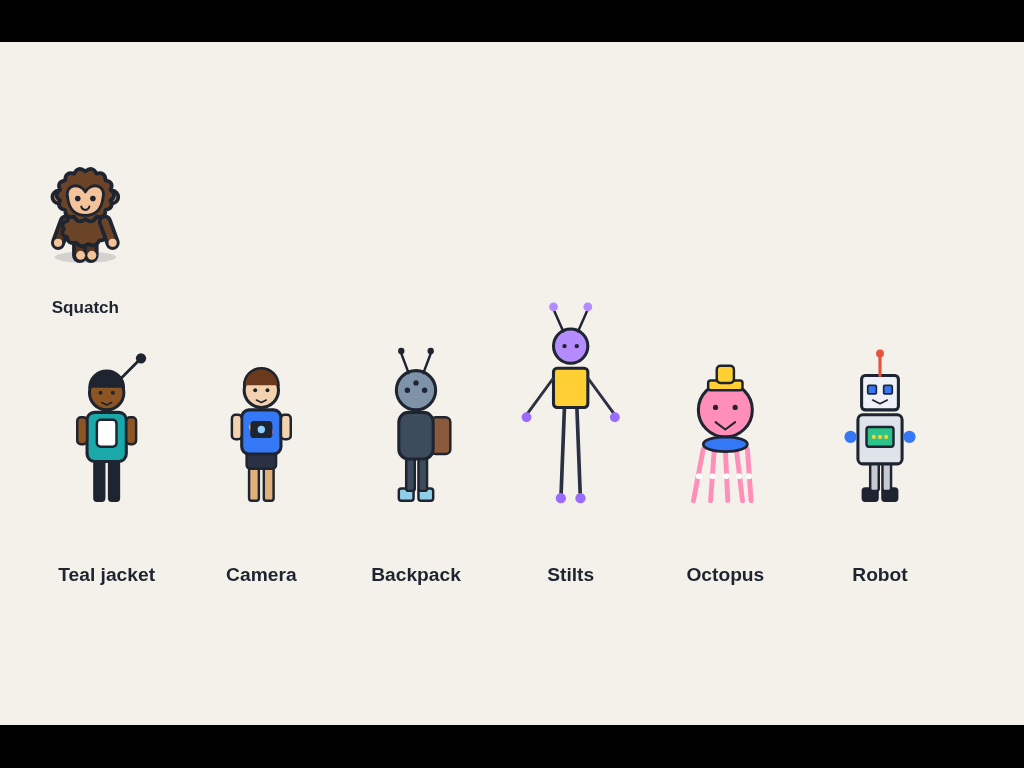
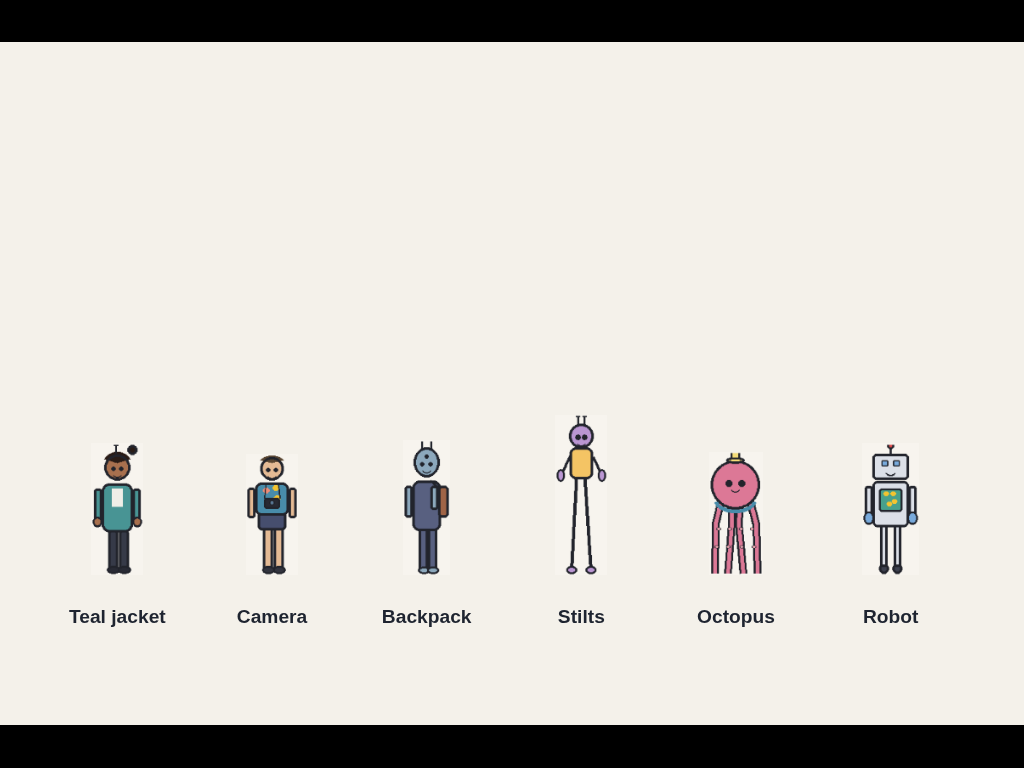
fix: use Brian's Nov 8 guest sheet as the only guest art
The six guests are slices of assets/approved/guests/nov8-six-approved-guests.png. The description drawings are gone. The check fails if guest art loads from anywhere else. The bush eyes stay at the approved leaf ratio.

diff --git a/prototypes/space-snack-quest/characters.js b/prototypes/space-snack-quest/characters.js
@@ -1,7 +1,7 @@
 // Character drawings from the live game on main, commit 4d1faa2 (2026-11-17).
 // Squatch: Re in src/game/60-frame-draw.js
 // Mops: Fe in the same file. The separate mop prop is left out; the beard is the mop.
-// Guests: drawCh1Alien in src/game/12-ch1-redesign.js
+// Guests are the Nov 8 sheet in assets/approved/guests/, not drawn here.
 // Hidden eyes: ga in src/game/10-ch1.js
 // The title screen of that game still uses an older Squatch and Mops. Those are not used here.
 (function () {
@@ -226,55 +226,6 @@ function Fe(l, o, i, s) {
     F(-2, -18, 1.2, "#e8a400"),
     e.restore());
 }
-function drawCh1Alien(ax, ay, kind, sc, face) {
-  let f = face < 0 ? -1 : 1,
-    bob = Math.sin(n.T * 2 + ax * 0.01) * 1.5;
-  (e.save(), e.translate(ax, ay + bob), e.scale(sc * f, sc));
-  (e.beginPath(), e.ellipse(0, 2, 16, 4, 0, 0, 7), (e.fillStyle = "rgba(30,36,48,.16)"), e.fill());
-  let body = "#7ad0c8",
-    skin = "#d8fff6";
-  kind === "croc" && ((body = "#3f8f4a"), (skin = "#b6e7a8"));
-  kind === "hat" && ((body = "#ff8a3d"), (skin = "#f0bf93"));
-  kind === "hair" && ((body = "#3478f6"), (skin = "#f2c1b0"));
-  kind === "spots" && ((body = "#ffcf33"), (skin = "#fff3c4"));
-  kind === "horns" && ((body = "#c9b6f2"), (skin = "#efe8ff"));
-  kind === "blob" && ((body = "#59657d"), (skin = "#d5dbe6"));
-  kind === "cape" && ((body = "#1f9d8a"), (skin = "#d8fff6"));
-  (m(-6, -20, 7, 20, 2),
-    r("#3d4454", 2),
-    m(2, -20, 7, 20, 2),
-    r("#3d4454", 2),
-    m(-16, -54, 32, 36, 10),
-    r(body, 3),
-    m(-22, -48, 8, 22, 3),
-    r(body, 2),
-    m(14, -48, 8, 22, 2),
-    r(body, 2),
-    L(0, -70, 14),
-    r(skin, 3),
-    F(-5, -72, 1.8, y),
-    F(5, -72, 1.8, y),
-    C([-3, -64, 0, -62, 3, -64], y, 1.2));
-  if (kind === "antenna") (C([-5, -82, -10, -98], y, 2.2), C([5, -82, 10, -98], y, 2.2), F(-10, -100, 3.2, "#ffcf33"), F(10, -100, 3.2, "#ffcf33"));
-  else if (kind === "croc")
-    (e.beginPath(),
-      e.moveTo(8, -76),
-      e.lineTo(30, -72),
-      e.lineTo(30, -62),
-      e.lineTo(8, -66),
-      e.closePath(),
-      r("#2f7a3a", 2),
-      F(24, -70, 1.3, y),
-      F(24, -65, 1.3, y),
-      C([14, -66, 20, -64, 26, -67], "#1e2430", 1.2));
-  else if (kind === "hat") (m(-14, -78, 28, 6, 2), r("#2b3a67", 2), m(-7, -92, 14, 16, 2), r("#2b3a67", 2));
-  else if (kind === "hair") (e.beginPath(), e.arc(0, -70, 14, Math.PI, 0), r("#7a4ad0", 3));
-  else if (kind === "spots") (F(-6, -48, 3, "#e5533d"), F(6, -40, 2.4, "#e5533d"), F(0, -56, 2, "#e5533d"));
-  else if (kind === "horns") (C([-4, -78, -12, -94], y, 3), C([4, -78, 12, -94], y, 3));
-  else if (kind === "blob") (F(-6, -70, 2, y), F(0, -70, 2, y), F(6, -70, 2, y), L(0, -40, 8), r("#8a93a3", 2));
-  else (m(-18, -46, 8, 18, 3), r("#e5533d", 2));
-  e.restore();
-}
 // One peeking eye from ga() in src/game/10-ch1.js at 4d1faa2 (decision C21, Brian t230).
 // White circle, 2px outline, pupil nudged down-right, and the same blink.
 // k scales the whole drawing. 1 is the original size on the original 40px front leaf.
@@ -285,105 +236,6 @@ function ga(l, o, k) {
   r("#ffffff", 2 * k);
   F(l + k, o + k, 2.4 * k, y);
 }
-// The Nov 8 guests (C12). The sprite files were not in the repo, so these are drawn
-// from Brian's description of that set. Not the later eight code-drawn guests.
-function drawApprovedGuest(ax, ay, kind, sc, face) {
-  const f = face < 0 ? -1 : 1;
-  e.save();
-  e.translate(ax, ay);
-  e.scale((sc || 1) * f, sc || 1);
-  if (kind === "teal") drawTeal();
-  else if (kind === "camera") drawCameraGuest();
-  else if (kind === "backpack") drawBackpack();
-  else if (kind === "stilt") drawStilt();
-  else if (kind === "octopus") drawOctopusGuest();
-  else if (kind === "robot") drawRobotGuest();
-  e.restore();
-}
-function drawTeal() {
-  m(-10, -36, 8, 36, 2); r("#1e2430", 2);
-  m(2, -36, 8, 36, 2); r("#1e2430", 2);
-  m(-16, -72, 32, 40, 6); r("#1aa8a8", 2.5);
-  m(-8, -66, 16, 22, 3); r("#ffffff", 2);
-  m(-24, -68, 8, 22, 3); r("#8d5524", 2);
-  m(16, -68, 8, 22, 3); r("#8d5524", 2);
-  L(0, -88, 14); r("#8d5524", 2.5);
-  e.beginPath(); e.arc(0, -92, 14, Math.PI, 0); r("#1e2430", 2);
-  F(-5, -88, 1.6, y); F(5, -88, 1.6, y);
-  C([-4, -80, 0, -78, 4, -80], y, 1.4);
-  C([12, -100, 26, -114], y, 2.2);
-  F(28, -116, 4.2, y);
-}
-function drawCameraGuest() {
-  m(-10, -30, 8, 30, 2); r("#e0b07a", 2);
-  m(2, -30, 8, 30, 2); r("#e0b07a", 2);
-  m(-12, -42, 24, 16, 3); r("#2a3142", 2);
-  m(-16, -74, 32, 36, 6); r("#3478f6", 2.5);
-  F(-6, -60, 4, "#ffcf33"); F(6, -56, 3.4, "#ff8fb8");
-  m(-8, -64, 16, 12, 2); r("#1e2430", 2);
-  F(0, -58, 3, "#8fd0ff");
-  m(-24, -70, 8, 20, 3); r("#f3d2b0", 2);
-  m(16, -70, 8, 20, 3); r("#f3d2b0", 2);
-  L(0, -90, 14); r("#f3d2b0", 2.5);
-  e.beginPath(); e.arc(0, -94, 14, Math.PI, 0); r("#6b3a1c", 2);
-  F(-5, -90, 1.6, y); F(5, -90, 1.6, y);
-  C([-4, -82, 0, -80, 4, -82], y, 1.3);
-}
-function drawBackpack() {
-  m(-14, -10, 12, 10, 2); r("#8fd0e8", 2);
-  m(2, -10, 12, 10, 2); r("#8fd0e8", 2);
-  m(-8, -38, 7, 30, 2); r("#3d4c5c", 2);
-  m(2, -38, 7, 30, 2); r("#3d4c5c", 2);
-  m(12, -68, 16, 30, 4); r("#8b5a3c", 2);
-  m(-14, -72, 28, 38, 8); r("#3d4c5c", 2.5);
-  L(0, -90, 16); r("#7f93a8", 2.5);
-  F(-7, -90, 2.2, y); F(0, -96, 2.2, y); F(7, -90, 2.2, y);
-  C([-6, -104, -12, -120], y, 2);
-  C([6, -104, 12, -120], y, 2);
-  F(-12, -122, 2.6, y); F(12, -122, 2.6, y);
-}
-function drawStilt() {
-  C([-5, -78, -8, 0], "#2a3142", 3);
-  C([5, -78, 8, 0], "#2a3142", 3);
-  F(-8, -2, 4.2, "#9b6dff"); F(8, -2, 4.2, "#9b6dff");
-  m(-14, -108, 28, 32, 3); r("#ffcf33", 2.5);
-  C([-14, -100, -36, -70], "#2a3142", 2.4);
-  C([14, -100, 36, -70], "#2a3142", 2.4);
-  F(-36, -68, 4, "#9b6dff"); F(36, -68, 4, "#9b6dff");
-  L(0, -126, 14); r("#b48cff", 2.5);
-  F(-5, -126, 1.8, y); F(5, -126, 1.8, y);
-  C([-6, -138, -14, -156], y, 2);
-  C([6, -138, 14, -156], y, 2);
-  F(-14, -158, 3.6, "#b48cff"); F(14, -158, 3.6, "#b48cff");
-}
-function drawOctopusGuest() {
-  [[-18, -8], [-9, -3], [0, 2], [9, 5], [18, 3]].forEach(([x, lean]) => {
-    C([x, -42, x + lean, 0], "#ff8fb8", 4);
-    F(x + lean * 0.45, -20, 2.4, "#ffffff");
-  });
-  e.beginPath(); e.ellipse(0, -46, 18, 6, 0, 0, 7); r("#3478f6", 2.2);
-  L(0, -74, 22); r("#ff8fb8", 2.5);
-  F(-8, -76, 2.1, y); F(8, -76, 2.1, y);
-  C([-8, -64, 0, -58, 8, -64], y, 1.6);
-  m(-14, -98, 28, 8, 2); r("#ffcf33", 2);
-  m(-7, -110, 14, 14, 3); r("#ffcf33", 2);
-}
-function drawRobotGuest() {
-  m(-14, -10, 12, 10, 2); r("#1e2430", 2);
-  m(2, -10, 12, 10, 2); r("#1e2430", 2);
-  m(-8, -32, 7, 24, 2); r("#c5cad3", 2);
-  m(2, -32, 7, 24, 2); r("#c5cad3", 2);
-  m(-18, -70, 36, 40, 4); r("#dfe3ea", 2.5);
-  m(-11, -60, 22, 16, 2); r("#2bc48a", 2);
-  F(-5, -52, 1.7, "#ffcf33"); F(0, -52, 1.7, "#ffcf33"); F(5, -52, 1.7, "#ffcf33");
-  F(-24, -52, 5, "#3478f6"); F(24, -52, 5, "#3478f6");
-  m(-15, -102, 30, 28, 3); r("#eef1f6", 2.5);
-  m(-10, -94, 7, 7, 1); r("#3478f6", 1.4);
-  m(3, -94, 7, 7, 1); r("#3478f6", 1.4);
-  C([-6, -82, 0, -79, 6, -82], y, 1.4);
-  C([0, -102, 0, -118], "#e5533d", 2.6);
-  F(0, -120, 3.2, "#e5533d");
-}
 
   window.ART = {
     squatch(ctx, x, yy, scale, opt) {
@@ -393,10 +245,6 @@ function drawRobotGuest() {
     mops(ctx, x, yy, scale, opt) {
       use(ctx, opt.t);
       Fe(x, yy, scale, { f: opt.f, walk: opt.walk, sway: opt.sway, mouth: opt.mouth, eyes: opt.eyes, headDown: opt.headDown });
-    },
-    guest(ctx, x, yy, kind, scale, face, time) {
-      use(ctx, time);
-      drawApprovedGuest(x, yy, kind, scale, face);
     },
     eyes(ctx, x, yy, time, scale) {
       use(ctx, time);

diff --git a/prototypes/space-snack-quest/index.html b/prototypes/space-snack-quest/index.html
@@ -140,6 +140,23 @@ function loadRoom(id, file) {
 }
 loadRoom('home', 'home-room-empty-closed-v5.png');
 loadRoom('hall', 'hall-room-empty-v1.png');
+// The only guest picture. Each person is a slice of this sheet.
+const GUEST_SHEET_SRC = 'assets/approved/guests/nov8-six-approved-guests.png';
+const guestSheet = new Image();
+guestSheet.src = GUEST_SHEET_SRC;
+const GUEST_PX = 0.2;
+const GUEST_SLICE = {
+  teal: { x: 120, y: 165, w: 243, h: 618 },
+  camera: { x: 556, y: 216, w: 243, h: 567 },
+  backpack: { x: 985, y: 150, w: 219, h: 633 },
+  stilt: { x: 1430, y: 30, w: 243, h: 753 },
+  octopus: { x: 1867, y: 195, w: 249, h: 579 },
+  robot: { x: 2293, y: 165, w: 267, h: 618 },
+};
+function guestBox(kind, scale) {
+  const s = GUEST_SLICE[kind];
+  return { w: s.w * GUEST_PX * scale, h: s.h * GUEST_PX * scale };
+}
 function drawRoom(id) {
   const img = rooms[id];
   if (img && img.complete && img.naturalWidth) ctx.drawImage(img, 0, 0, W, H);
@@ -169,12 +186,13 @@ const LEAF = { x: 416, y: 492, w: 52, h: 20 };
 const EYES = [{ x: 426, y: 500 }, { x: 454, y: 500 }];
 const BUSH_GAP = 18;
 const GUESTS = ['teal', 'camera', 'backpack', 'stilt', 'octopus', 'robot'];
-const GUEST_SCALE = 1.2;
+const GUEST_SCALE = 1;
 const POT = { x: 442, y: 526 };
 const DOOR = { x: 300, y: 590 };
 const WATCH_FEET = { x: 640, y: 592 };
 function watchEyes() {
-  return { x: WATCH_FEET.x, y: WATCH_FEET.y - 90 * GUEST_SCALE };
+  const h = guestBox('camera', GUEST_SCALE).h;
+  return { x: WATCH_FEET.x, y: WATCH_FEET.y - h * 0.84 };
 }
 function outsideBush(points, gap) {
   let cx = 0, cy = 0;
@@ -485,9 +503,17 @@ function drawMops(x, y, scale, opt) {
   return head;
 }
 function drawGuest(x, y, scale, kind, face) {
-  ART.guest(ctx, x, y, kind, scale, face, state.t);
   state.guests.push(kind);
-  const head = { x: x - 18 * scale, y: y - 100 * scale, w: 36 * scale, h: 40 * scale, who: kind };
+  const slice = GUEST_SLICE[kind];
+  const box = guestBox(kind, scale);
+  if (guestSheet.complete && guestSheet.naturalWidth) {
+    ctx.save();
+    ctx.translate(x, y);
+    if ((face || 1) < 0) ctx.scale(-1, 1);
+    ctx.drawImage(guestSheet, slice.x, slice.y, slice.w, slice.h, -box.w / 2, -box.h, box.w, box.h);
+    ctx.restore();
+  }
+  const head = { x: x - box.w * 0.28, y: y - box.h, w: box.w * 0.56, h: box.h * 0.24, who: kind };
   state.heads.push(head);
   return head;
 }
@@ -703,8 +729,9 @@ function drawPeople() {
   drawCone(eyes.x, eyes.y, look.face, tune.cone_half, tune.cone_len, watchHot);
   if (watchHot) rise('bang', eyes.x, eyes.y - 30);
   // The other five approved guests look at the stage. Same cone size, pointed up.
-  [[160, 540, 'teal'], [250, 480, 'backpack'], [560, 580, 'stilt'], [800, 530, 'octopus'], [860, 500, 'robot']].forEach(([x, y, kind]) => {
-    const ox = x, oy = y - 90 * GUEST_SCALE;
+  [[160, 540, 'teal'], [250, 500, 'backpack'], [520, 590, 'stilt'], [780, 540, 'octopus'], [860, 520, 'robot']].forEach(([x, y, kind]) => {
+    const box = guestBox(kind, GUEST_SCALE);
+    const ox = x, oy = y - box.h * 0.8;
     const face = -Math.PI / 2;
     const hot = !state.hidden && inCone(state.sq.x, state.sq.y - 16, ox, oy, face, tune.cone_half, tune.cone_len);
     drawCone(ox, oy, face, tune.cone_half, tune.cone_len, hot);
@@ -785,12 +812,10 @@ function drawLineup() {
   clear('#f4f1ea');
   const names = ['Teal jacket', 'Camera', 'Backpack', 'Stilts', 'Octopus', 'Robot'];
   GUESTS.forEach((kind, i) => {
-    const x = 100 + i * 145;
-    drawGuest(x, 430, 1.15, kind, 1);
-    say(names[i], x, 500, 18, INK, 'center', 700);
+    const x = 110 + i * 145;
+    drawGuest(x, 500, 1, kind, 1);
+    say(names[i], x, 540, 18, INK, 'center', 700);
   });
-  drawSquatch(80, 200, 1.75, { face: 1 });
-  say('Squatch', 80, 250, 16, INK, 'center', 700);
 }
 
 // ---- Scenes ----------------------------------------------------------------------------
@@ -854,7 +879,8 @@ window.game = {
   get events() { return events; },
   inCone, PLANTER, BUSH_OUTLINE, LEAF, EYES, POT, DOOR, WATCH_FEET, watchEyes, LINE, GUESTS,
   roomsReady() {
-    return Object.keys(rooms).length > 0 && Object.values(rooms).every(img => img.complete && img.naturalWidth);
+    const imgs = [...Object.values(rooms), guestSheet];
+    return imgs.every(img => img.complete && img.naturalWidth);
   },
   step(n = 1, draw = true, alpha = 1) {
     for (let i = 0; i < n; i++) step();

diff --git a/docs/RULEBOOK.md b/docs/RULEBOOK.md
@@ -66,7 +66,7 @@ Drawn characters, from the live game's code at commit 4d1faa2 (17 Nov 2026), fil
 | Mops | function Fe. His beard is the mop. No mop prop. | Brian, 2026-11-20. |
 | Hidden eyes | function ga. White circle, dark outline, pupil down-right, with the blink. Scaled to 22/40 so the eye stays the same fraction of this bush's front leaf. One eye in each front clump. | Brian, 8 Nov 2026, decision C21, "These are the eyes." |
 
-Guests. Brian approved six on 8 Nov 2026 (decision C12, "We like these ones just fine, and actually the robot is fine as well"). The jelly in a sun hat and the furry alien are not guests. The later sheet of eight code-drawn guests is not approved. The sprite files were not in the old repo, so these six are drawn from his description of that set:
+Guests. Brian approved six on 8 Nov 2026 (decision C12, "We like these ones just fine, and actually the robot is fine as well"). The jelly in a sun hat and the furry alien are not guests. The later sheet of eight code-drawn guests is not approved. The picture is `assets/approved/guests/nov8-six-approved-guests.png`. The game loads that file and no other guest art. The cuts next to it (`teal.png`, `camera.png`, `backpack.png`, `stilt.png`, `octopus.png`, `robot.png`) are the same pixels, kept so each person can be checked. They are not a second drawing. Each person on screen is a slice of the sheet:
 
 1. Teal jacket. Brown skin, short black hair, one antenna with a black ball off to the side, teal jacket, white chest panel, black pants.
 2. Camera. Light skin, brown hair, blue shirt, yellow and pink badges, black camera, dark shorts, tan legs.
